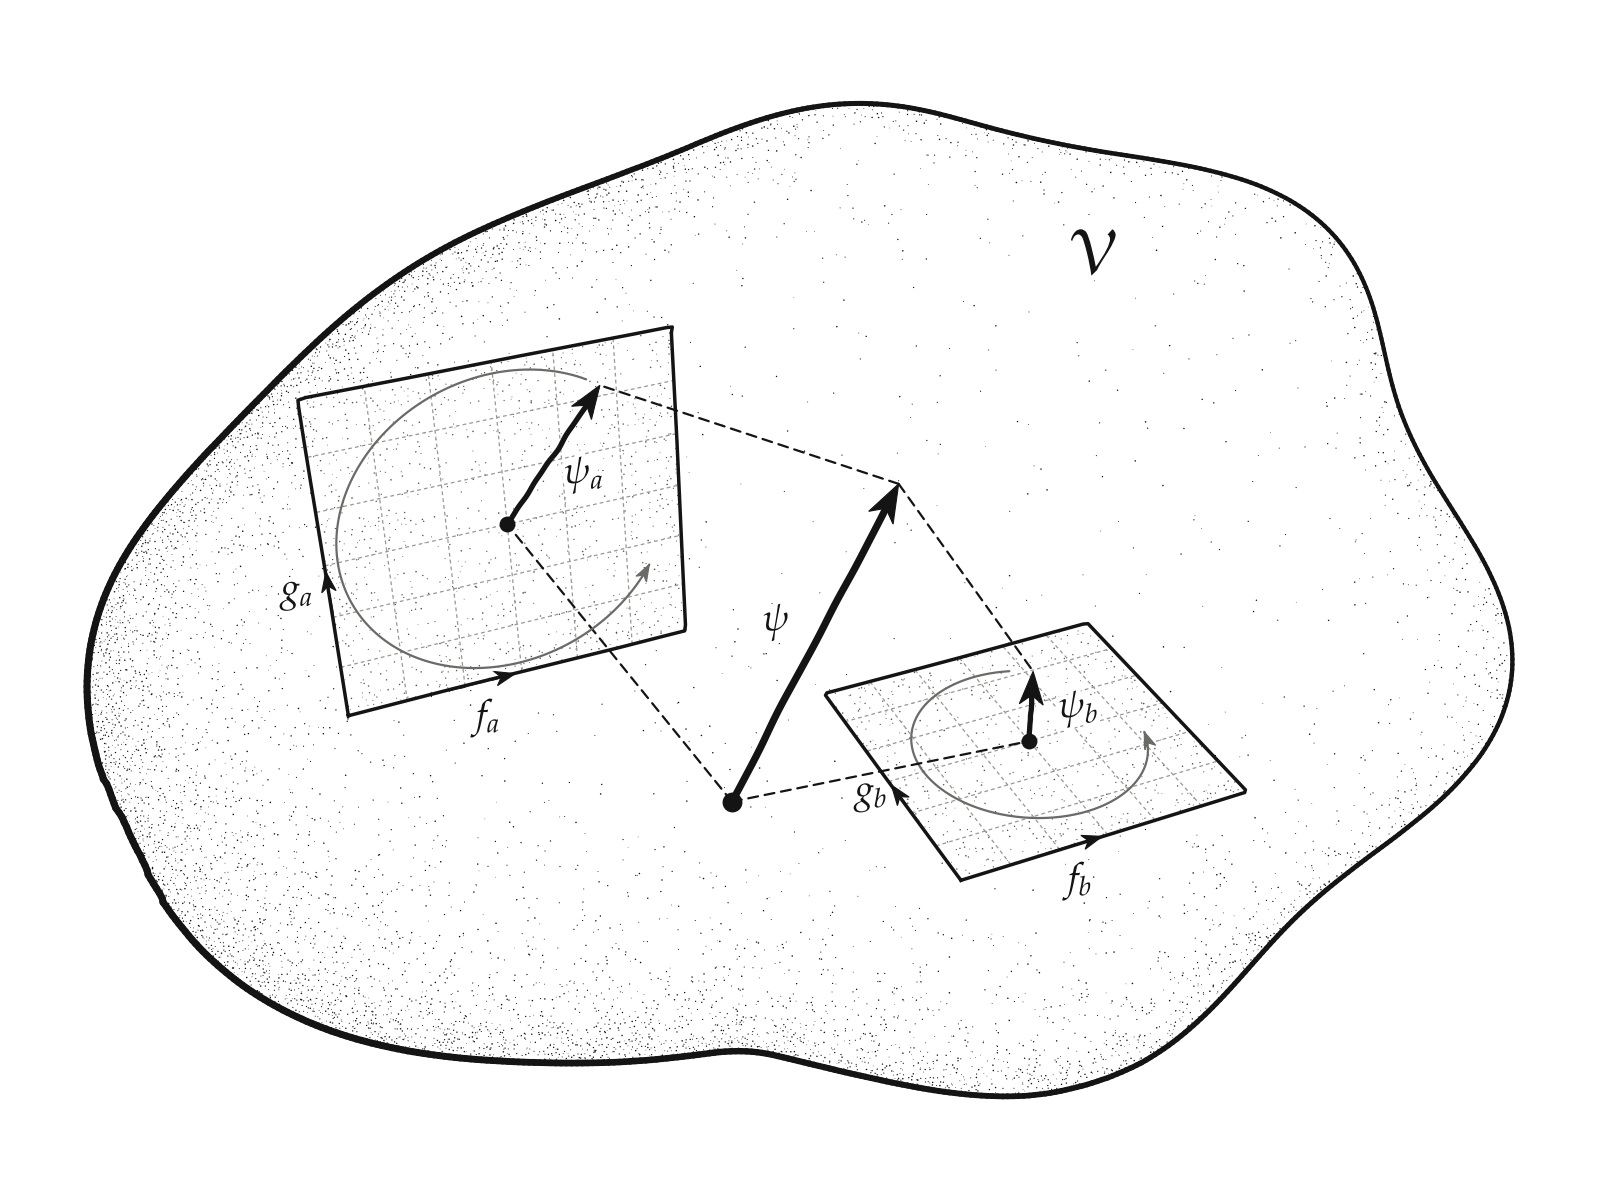
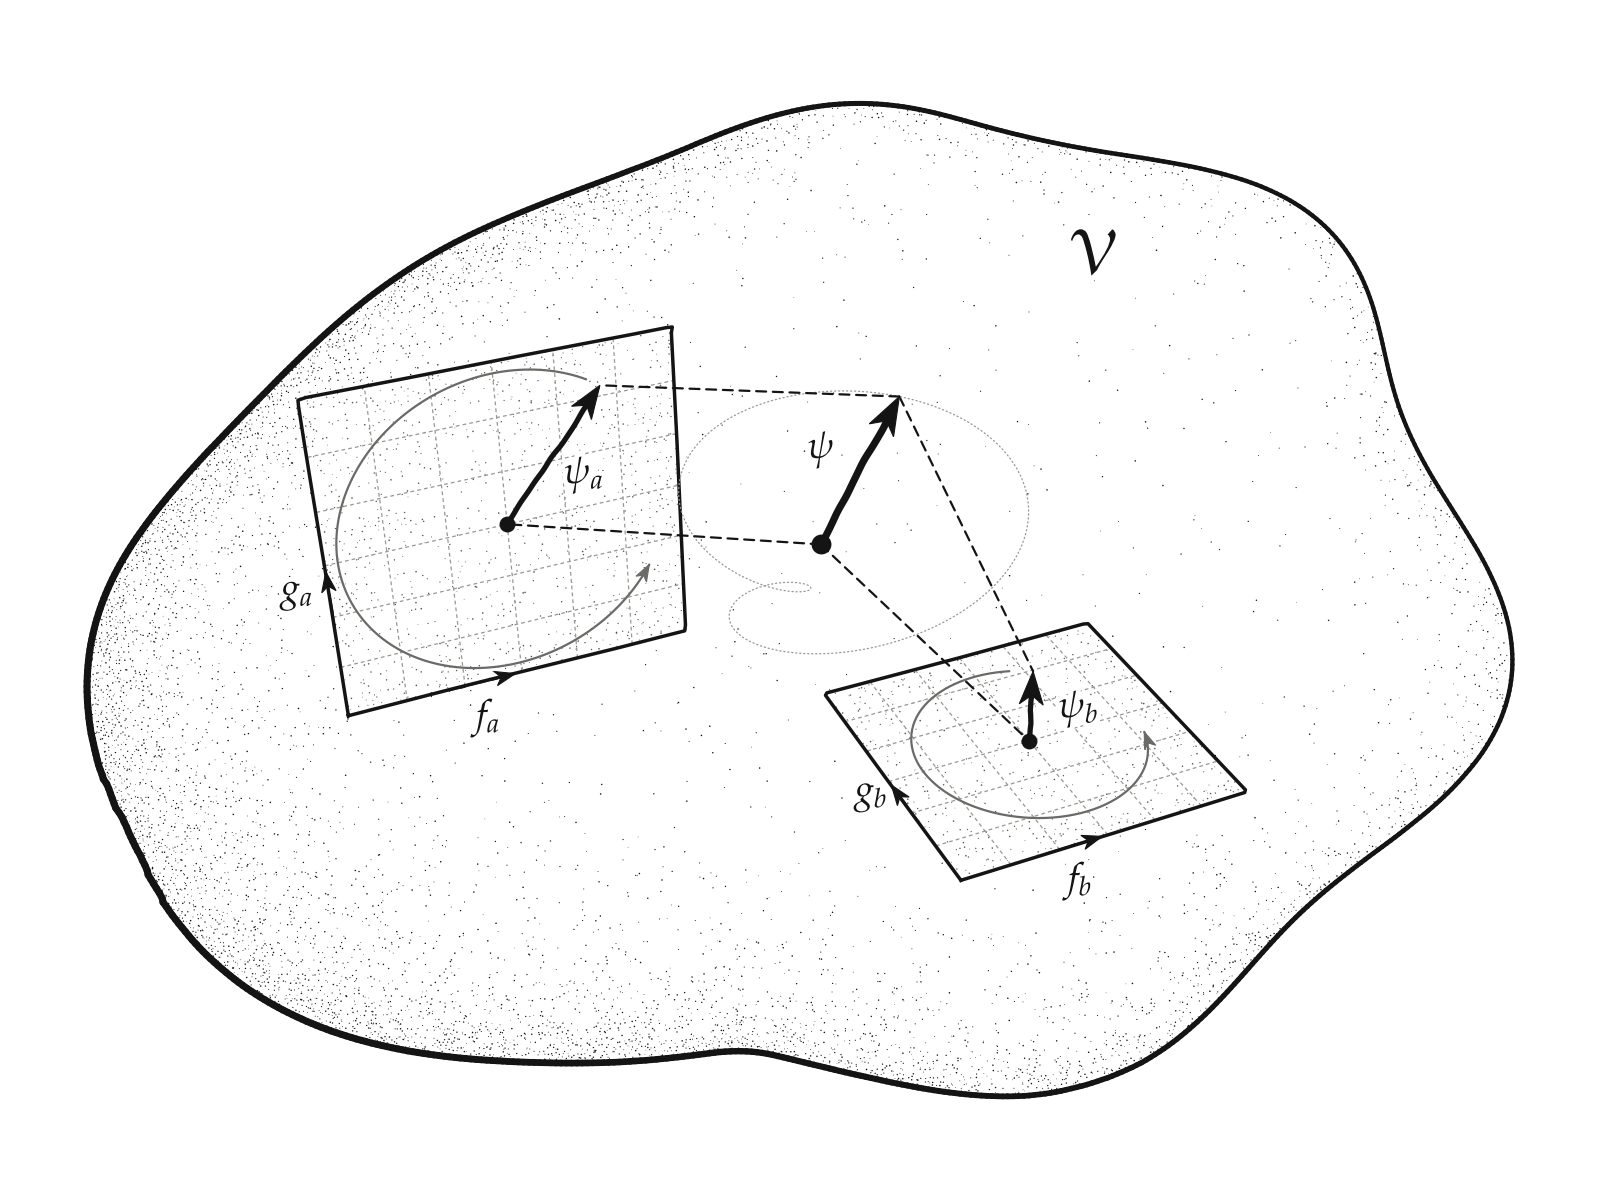
Trace the orbit of ψ in the conjugate-planes still
The still and the animation now share one layout, with ψ based between
the planes at a scale whose whole closed orbit stays clear of both, so
the still shows the dotted trace and matches the first frame.

diff --git a/src/morphis/examples/conjugate_planes.py b/src/morphis/examples/conjugate_planes.py
@@ -44,14 +44,12 @@ PERIOD = 2 * pi / OMEGA_A
 ORBIT_TIMES = linspace(0.0, PERIOD, 721)
 
 DURATION = 10.0
-
-# Where the state arrow is based and how large it is drawn: a still can lean the
-# arrow between the planes, while the moving state needs room for its whole orbit
-STILL_ORIGIN = (-1.15, -0.9, -1.1)
-STILL_SCALE = 1.55
-MOTION_ORIGIN = (0.35, 0.9, -0.35)
-MOTION_SCALE = 0.8
 FRAME_RATE = 30
+
+# Where the state arrow is based and how large it is drawn: room for its whole
+# orbit in the open space between the two planes
+STATE_ORIGIN = (0.35, 0.9, -0.35)
+STATE_SCALE = 0.8
 
 # True geometry: the realified qubit, directions (1, 1̇, 2, 2̇) as e_1..e_4
 METRIC = euclidean_metric(4)
@@ -85,13 +83,7 @@ def orbit() -> Vector:
     return states
 
 
-def create_sketch(
-    theme: str = "ink",
-    t: float = 0.0,
-    trail: bool = False,
-    origin: tuple[float, float, float] = STILL_ORIGIN,
-    scale: float = STILL_SCALE,
-) -> Sketch:
+def create_sketch(theme: str = "ink", t: float = 0.0) -> Sketch:
     state = evolve(INITIAL_STATE, t)
     shadow_a, shadow_b = shadows(state)
 
@@ -108,7 +100,8 @@ def create_sketch(
     sketch.space(OrganicSpace(seed=3, stretch=(1.6, 1.25, 1.05), size=3.2))
 
     # Placement: where each piece sits in the drawing space
-    origin = array(origin)
+    origin = array(STATE_ORIGIN)
+    scale = STATE_SCALE
     anchor_a = array([-2.25, 0.5, 0.75])
     anchor_b = array([1.9, 0.1, -2.25])
     reach = 1.3
@@ -125,14 +118,13 @@ def create_sketch(
     sketch.circle(anchor_a, F_A, G_A, radius=norm(shadow_a.data), arc=(1.0, 2.6 + pi), arrow=True)
     sketch.circle(anchor_b, F_B, G_B, radius=norm(shadow_b.data), arc=(1.25, 2.85 + pi), arrow=True)
 
-    if trail:
-        # The drawn state's closed orbit over one period, and the part already traversed
-        path = origin + scale * sketch.drawn(orbit())
-        sketch.curve(path, dashed=True, weight="hair", level=0.35)
-        elapsed = searchsorted(ORBIT_TIMES, t % PERIOD)
-        traversed = concatenate([path[:elapsed], [origin + scale * sketch.drawn(state)]])
-        if len(traversed) > 1:
-            sketch.curve(traversed, level=0.5)
+    # The drawn state's closed orbit over one period, and the part already traversed
+    path = origin + scale * sketch.drawn(orbit())
+    sketch.curve(path, dashed=True, weight="hair", level=0.35)
+    elapsed = searchsorted(ORBIT_TIMES, t % PERIOD)
+    traversed = concatenate([path[:elapsed], [origin + scale * sketch.drawn(state)]])
+    if len(traversed) > 1:
+        sketch.curve(traversed, level=0.5)
 
     tip_a = sketch.vector(shadow_a, at=anchor_a, weight="bold", label="$ψ_a$", label_offset=-13, label_size=14)
     tip_b = sketch.vector(shadow_b, at=anchor_b, weight="bold", label="$ψ_b$", label_offset=-17, label_size=14)
@@ -163,12 +155,7 @@ if __name__ == "__main__":
 
     if is_animation:
         times = linspace(0.0, PERIOD, int(DURATION * FRAME_RATE), endpoint=False)
-        path = animate(
-            lambda t: create_sketch(theme, t, trail=True, origin=MOTION_ORIGIN, scale=MOTION_SCALE),
-            times,
-            output,
-            fps=FRAME_RATE,
-        )
+        path = animate(lambda t: create_sketch(theme, t), times, output, fps=FRAME_RATE)
     else:
         path = create_sketch(theme).save(output)
 
